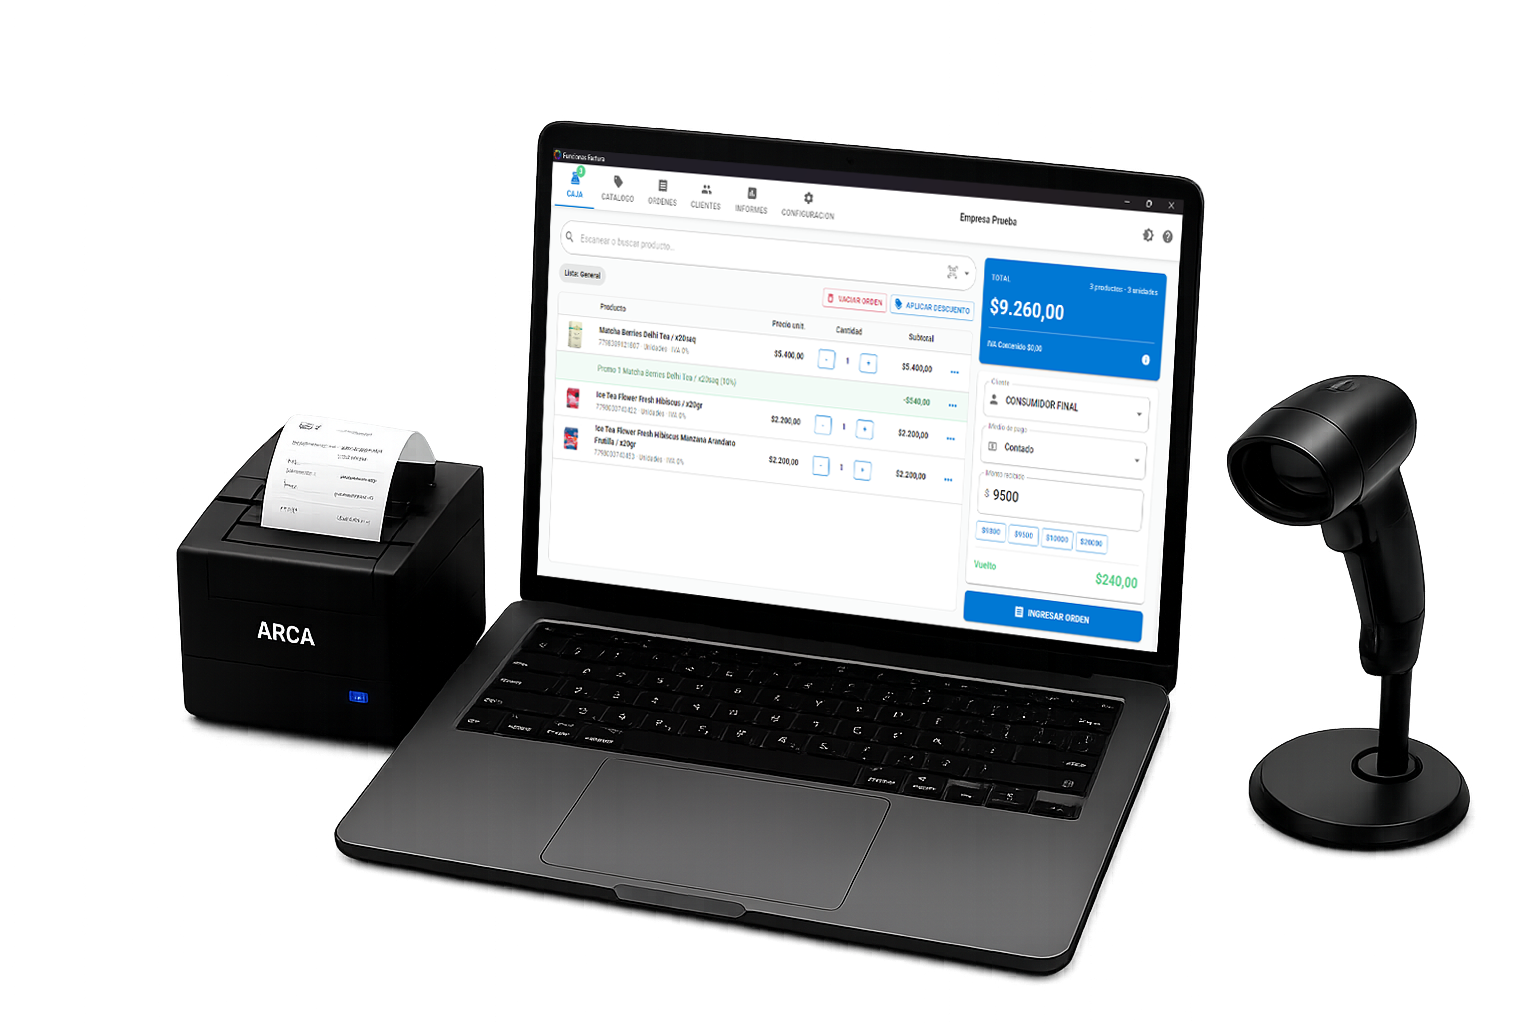
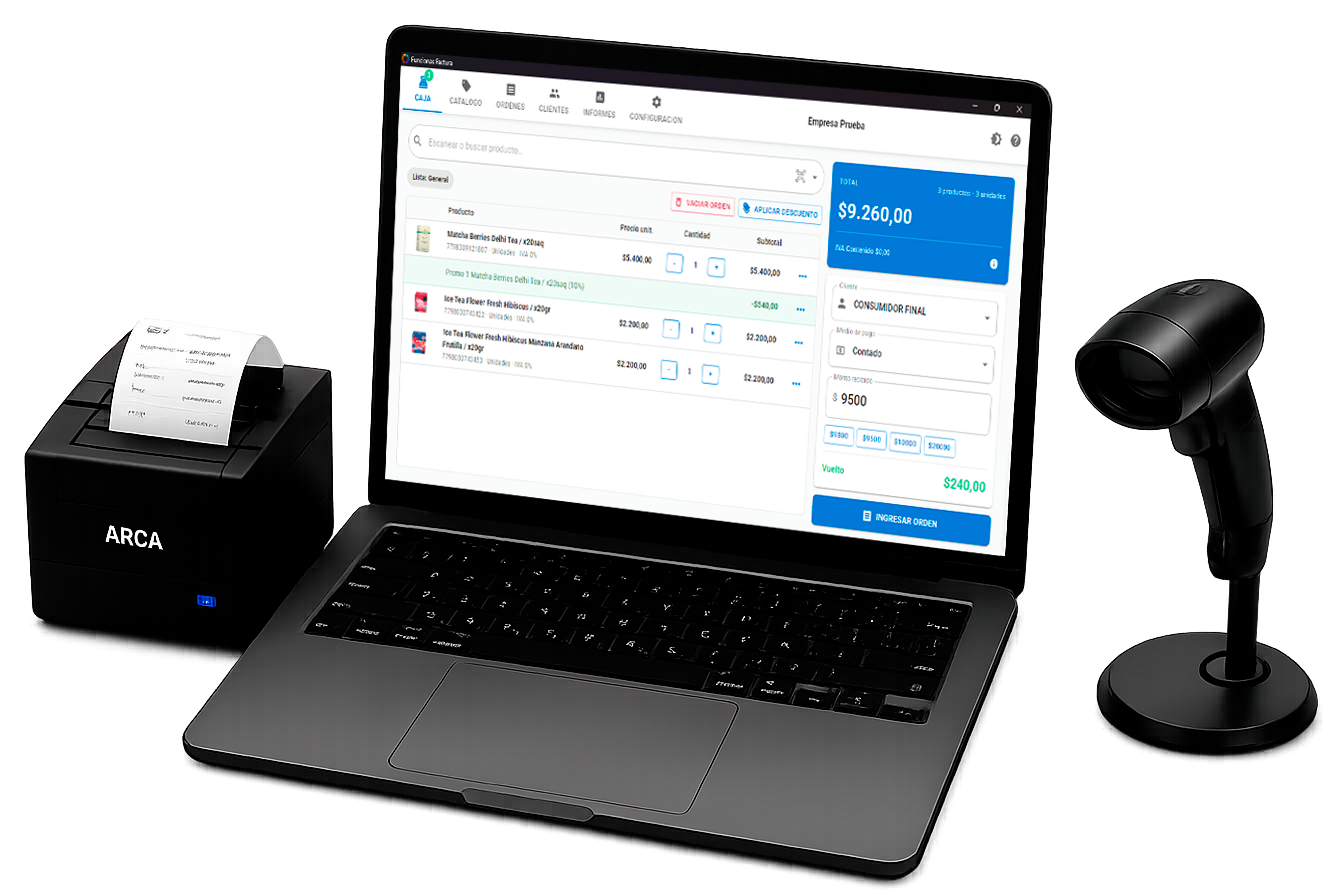
Correccion imagen principal

Changed region(s): [[0.0, 0.0312, 1.0, 1.0], [0.1562, 0.5938, 0.2188, 0.625], [0.5312, 0.6875, 0.5625, 0.7188]]

diff --git a/main.css b/main.css
@@ -101,8 +101,8 @@ nav {
 }
 
 .image-container img {
-    width: 145%;
-    max-width: 620px;
+    width: 100%;
+    max-width: 580px;
     height: auto;
     display: block;
     transform: scale(1.2);